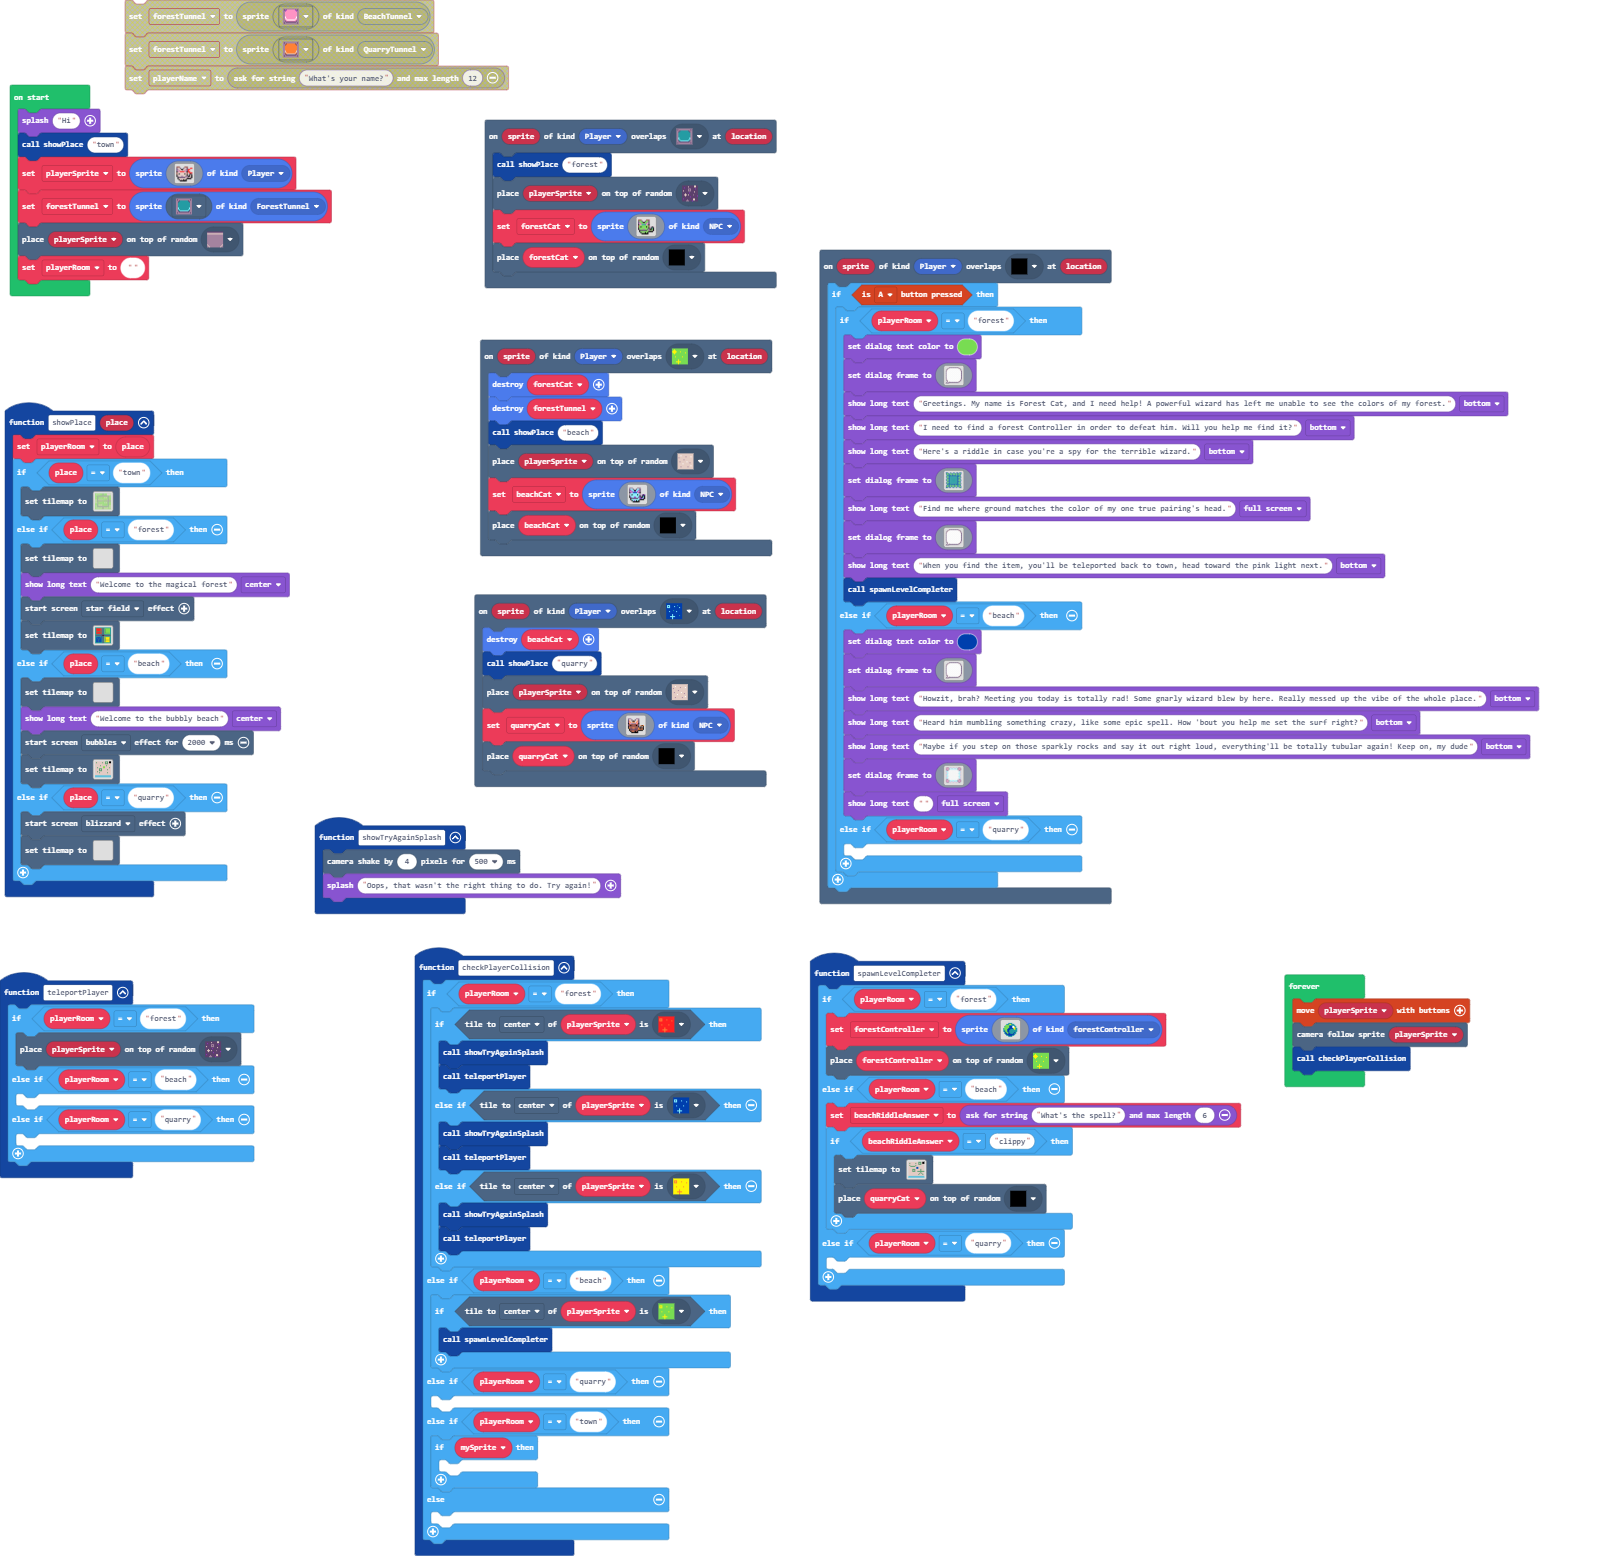
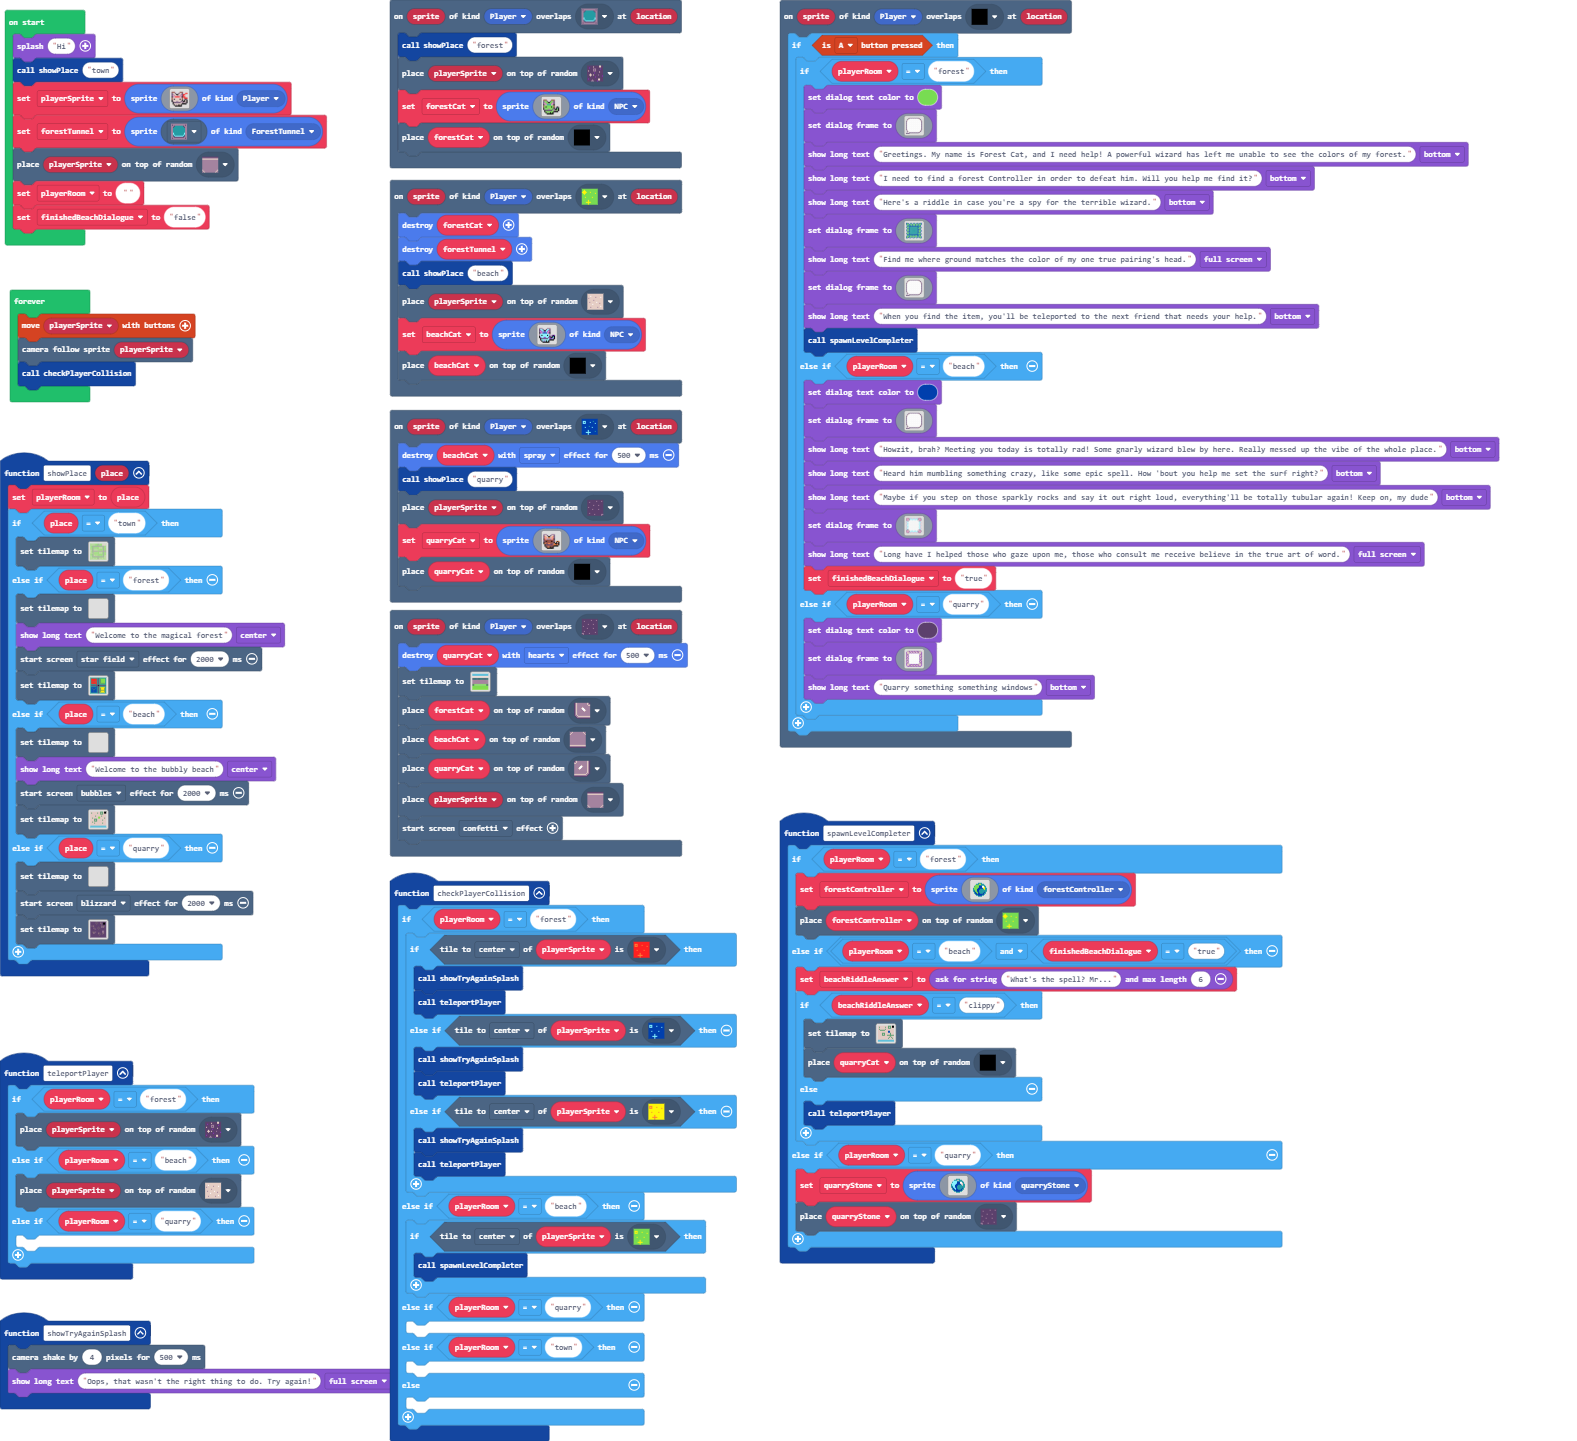
finished beach scene, made quarry tilemap, and levelCompleter orb

diff --git a/main.ts b/main.ts
@@ -4,6 +4,7 @@ namespace SpriteKind {
     export const QuarryTunnel = SpriteKind.create()
     export const NPC = SpriteKind.create()
     export const forestController = SpriteKind.create()
+    export const quarryStone = SpriteKind.create()
 }
 scene.onOverlapTile(SpriteKind.Player, myTiles.tile2, function (sprite, location) {
     if (controller.A.isPressed()) {
@@ -100,7 +101,7 @@ scene.onOverlapTile(SpriteKind.Player, myTiles.tile2, function (sprite, location
                 .b11bcccccccccccccc.....
                 ccccc...................
                 `)
-            game.showLongText("When you find the item, you'll be teleported back to town, head toward the pink light next.", DialogLayout.Bottom)
+            game.showLongText("When you find the item, you'll be teleported to the next friend that needs your help.", DialogLayout.Bottom)
             spawnLevelCompleter()
         } else if (playerRoom == "beach") {
             game.setDialogTextColor(8)
@@ -177,11 +178,57 @@ scene.onOverlapTile(SpriteKind.Player, myTiles.tile2, function (sprite, location
                 ..........................................
                 ..........................................
                 `)
-            game.showLongText("", DialogLayout.Full)
+            game.showLongText("Long have I helped those who gaze upon me, those who consult me receive believe in the true art of word.", DialogLayout.Full)
+            finishedBeachDialogue = "true"
         } else if (playerRoom == "quarry") {
-        	
+            game.setDialogTextColor(12)
+            game.setDialogFrame(img`
+                ..bbabbaabbaabbaabbbbb..
+                .bddbaddbaddbaddbabbddb.
+                addddbaddbaddbaddbadddda
+                addddbbaabbaabbaabbdddda
+                abddb11111111111111bddba
+                bbab1111111111111111bbab
+                babb1111111111111111badb
+                abda1111111111111111adda
+                adda1111111111111111adba
+                bdab1111111111111111bbab
+                babb1111111111111111badb
+                abda1111111111111111adda
+                adda1111111111111111adba
+                bdab1111111111111111bbab
+                babb1111111111111111badb
+                abda1111111111111111adda
+                adda1111111111111111adba
+                bdab1111111111111111bbab
+                babb1111111111111111babb
+                abddb11111111111111bddba
+                addddbbaabbaabbaabbdddda
+                addddabddabddabddabdddda
+                .addbbabddabddabddabdda.
+                ..aaabbaabbaabbaabbaaa..
+                `)
+            game.showLongText("Quarry something something windows", DialogLayout.Bottom)
         }
     }
+})
+scene.onOverlapTile(SpriteKind.Player, sprites.dungeon.darkGroundNorthEast1, function (sprite, location) {
+    quarryCat.destroy(effects.hearts, 500)
[1 lines of base64/hex data omitted]
+        . . . . . . . . 
+        . . . . . . . . 
+        . . . . . . . . 
+        . . . . . . . . 
+        . . . . . . . . 
+        . . . . . . . . 
+        . . . . . . . . 
+        . . . . . . . . 
+        `, [myTiles.transparency16,sprites.vehicle.roadTurn3,sprites.vehicle.roadIntersection1,sprites.vehicle.roadTurn4,sprites.vehicle.roadIntersection3,sprites.vehicle.roadTurn2,sprites.vehicle.roadTurn1,sprites.builtin.crowd5,sprites.builtin.crowd1,sprites.builtin.crowd0,sprites.builtin.crowd2,sprites.builtin.crowd3,sprites.builtin.crowd4,sprites.builtin.crowd6,sprites.builtin.brick,sprites.dungeon.hazardWater,sprites.castle.saplingPine,sprites.castle.tileGrass1,sprites.castle.tileGrass2,sprites.castle.tileGrass3], TileScale.Sixteen))
+    tiles.placeOnRandomTile(forestCat, sprites.vehicle.roadTurn3)
+    tiles.placeOnRandomTile(beachCat, sprites.vehicle.roadIntersection1)
+    tiles.placeOnRandomTile(quarryCat, sprites.vehicle.roadTurn4)
+    tiles.placeOnRandomTile(playerSprite, sprites.vehicle.roadIntersection3)
+    effects.confetti.startScreenEffect()
 })
 function spawnLevelCompleter () {
     if (playerRoom == "forest") {
@@ -204,10 +251,10 @@ function spawnLevelCompleter () {
             . . . . . . . . . . . . . . . . 
             `, SpriteKind.forestController)
         tiles.placeOnRandomTile(forestController, myTiles.tile9)
-    } else if (playerRoom == "beach") {
-        beachRiddleAnswer = game.askForString("What's the spell?", 6)
+    } else if (playerRoom == "beach" && finishedBeachDialogue == "true") {
+        beachRiddleAnswer = game.askForString("What's the spell? Mr...", 6)
         if (beachRiddleAnswer == "clippy") {
-            tiles.setTilemap(tiles.createTilemap(hex`1000100001010101010101010101030303010404010301010101010301010301030104040101010101010101010103030301010101030101010101030101010101010101010103030303030101010101010101010101010101010101050501010101010101010101010101010505010101010101010101010303030101010101030101010101010103010301010101010301010101010101030303010103030303030303010101010101010101010101030101010101010101010101010101030103010101010101010101010101030101010301010101010101010101010101010101010202020202020202020202020202020202020202020202020202020202020202`, img`
+            tiles.setTilemap(tiles.createTilemap(hex`1000100001010101010101010101030303010404010301010101010301010301030104040101010101010101010103030301010101030101010101030101010101010101010103030303030101010101010101010101010101010101010105050101010101010101010101010101050501010101010101010303030101010101030101010101010103010301010101010301010101010101030303010103030303030303010101010101010101010101030101010101010101010101010101030103010101010101010101010101030101010301010101010101010101010101010101010202020202020202020202020202020202020202020202020202020202020202`, img`
                 . . . . . . . . . . 2 2 2 . . . 
                 . . . . . . . . . . 2 . 2 . . . 
                 . . . . . . . . . . 2 2 2 . . . 
@@ -226,9 +273,29 @@ function spawnLevelCompleter () {
                 . . . . . . . . . . . . . . . . 
                 `, [myTiles.transparency16,myTiles.tile10,sprites.dungeon.hazardWater,sprites.castle.shrub,myTiles.tile2,myTiles.tile11], TileScale.Sixteen))
             tiles.placeOnRandomTile(quarryCat, myTiles.tile2)
+        } else {
+            teleportPlayer()
         }
     } else if (playerRoom == "quarry") {
-    	
+        quarryStone = sprites.create(img`
+            . . . . . . . . . . . . . . . . 
+            . . . . . . 6 6 6 6 . . . . . . 
+            . . . . 6 6 6 d d 6 6 6 . . . . 
+            . . . 9 9 9 9 6 6 6 6 6 6 . . . 
+            . . 6 9 9 9 9 8 8 8 1 1 6 6 . . 
+            . . 9 9 9 9 9 8 8 8 1 1 d 6 . . 
+            . 6 9 9 9 9 8 8 8 8 8 d d 6 6 . 
+            . 6 9 9 9 8 8 8 6 6 6 6 d 6 6 . 
+            . 6 6 9 9 8 8 6 6 6 6 6 6 6 6 . 
+            . 6 8 9 9 8 8 6 6 6 6 6 6 6 6 . 
+            . . 6 8 9 9 8 6 6 6 6 6 8 6 . . 
+            . . 6 8 8 9 8 8 6 6 6 8 6 6 . . 
+            . . . 6 8 8 8 8 8 8 8 8 6 . . . 
+            . . . . 6 6 8 8 8 8 6 6 . . . . 
+            . . . . . . 6 6 6 6 . . . . . . 
+            . . . . . . . . . . . . . . . . 
+            `, SpriteKind.quarryStone)
+        tiles.placeOnRandomTile(quarryStone, sprites.dungeon.darkGroundNorthEast1)
     }
 }
 function checkPlayerCollision () {
@@ -250,10 +317,7 @@ function checkPlayerCollision () {
     } else if (playerRoom == "quarry") {
     	
     } else if (playerRoom == "town") {
-        let mySprite = 0
-        if (mySprite) {
-        	
-        }
+    	
     } else {
     	
     }
@@ -282,9 +346,9 @@ scene.onOverlapTile(SpriteKind.Player, myTiles.tile9, function (sprite, location
     tiles.placeOnRandomTile(beachCat, myTiles.tile2)
 })
 scene.onOverlapTile(SpriteKind.Player, myTiles.tile11, function (sprite, location) {
-    beachCat.destroy()
+    beachCat.destroy(effects.spray, 500)
     showPlace("quarry")
-    tiles.placeOnRandomTile(playerSprite, myTiles.tile10)
+    tiles.placeOnRandomTile(playerSprite, sprites.dungeon.darkGroundNorthWest1)
     quarryCat = sprites.create(img`
         . . . . . . . . . . . . . . 
         b b b . . . . b b b . . . . 
@@ -328,19 +392,19 @@ function teleportPlayer () {
     if (playerRoom == "forest") {
         tiles.placeOnRandomTile(playerSprite, myTiles.tile4)
     } else if (playerRoom == "beach") {
-    	
+        tiles.placeOnRandomTile(playerSprite, myTiles.tile10)
     } else if (playerRoom == "quarry") {
     	
     }
 }
 function showTryAgainSplash () {
     scene.cameraShake(4, 500)
-    game.splash("Oops, that wasn't the right thing to do. Try again!")
+    game.showLongText("Oops, that wasn't the right thing to do. Try again!", DialogLayout.Full)
 }
 function showPlace (place: string) {
     playerRoom = place
     if (place == "town") {
[2 lines of base64/hex data omitted]
             ......................2..2......................
             ......................2..2......................
             ......................2..2......................
@@ -389,7 +453,7 @@ function showPlace (place: string) {
             ................................................
             ................................................
             ................................................
-            `, [myTiles.transparency16,sprites.castle.tileGrass1,sprites.castle.tileGrass3,sprites.castle.tileGrass2,sprites.vehicle.roadIntersection3,sprites.vehicle.roadIntersection1,sprites.vehicle.roadTurn1,sprites.vehicle.roadIntersection2,sprites.vehicle.roadIntersection4,sprites.vehicle.roadTurn4,sprites.vehicle.roadTurn3,sprites.dungeon.buttonTealDepressed,sprites.dungeon.buttonPink,sprites.vehicle.roadTurn2,sprites.castle.shrub,sprites.castle.rock2,sprites.castle.saplingOak,sprites.builtin.coral1,sprites.castle.tilePath5,sprites.dungeon.buttonOrangeDepressed], TileScale.Sixteen))
+            `, [myTiles.transparency16,sprites.castle.tileGrass1,sprites.castle.tileGrass3,sprites.castle.tileGrass2,sprites.vehicle.roadIntersection3,sprites.vehicle.roadIntersection1,sprites.vehicle.roadTurn1,sprites.vehicle.roadIntersection2,sprites.vehicle.roadIntersection4,sprites.vehicle.roadTurn4,sprites.vehicle.roadTurn3,sprites.dungeon.buttonTealDepressed,sprites.vehicle.roadTurn2,sprites.castle.shrub,sprites.castle.rock2,sprites.castle.saplingOak,sprites.builtin.coral1,sprites.castle.tilePath5], TileScale.Sixteen))
     } else if (place == "forest") {
         tiles.setTilemap(tiles.createTilemap(hex`1000100000000000000000000000000000000000000000000000000000000000000000000000000000000000000000000000000000000000000000000000000000000000000000000000000000000000000000000000000000000000000000000000000000000000000000000000000000000000000000000000000000000000000000000000000000000000000000000000000000000000000000000000000000000000000000000000000000000000000000000000000000000000000000000000000000000000000000000000000000000000000000000000000000000000000000000000000000000000000000000000000000000000000000000000000000000000`, img`
             . . . . . . . . . . . . . . . . 
@@ -410,7 +474,7 @@ function showPlace (place: string) {
             . . . . . . . . . . . . . . . . 
             `, [myTiles.transparency16], TileScale.Sixteen))
         game.showLongText("Welcome to the magical forest", DialogLayout.Center)
-        effects.starField.startScreenEffect()
+        effects.starField.startScreenEffect(2000)
[1 lines of base64/hex data omitted]
             ..............22222.............
             ..............2..22222222222222.
@@ -485,7 +549,6 @@ function showPlace (place: string) {
             . . . . . . . . . . . . . . . . 
             `, [myTiles.transparency16,myTiles.tile10,sprites.dungeon.hazardWater,sprites.castle.shrub,myTiles.tile2,myTiles.tile6], TileScale.Sixteen))
     } else if (place == "quarry") {
-        effects.blizzard.startScreenEffect()
         tiles.setTilemap(tiles.createTilemap(hex`1000100000000000000000000000000000000000000000000000000000000000000000000000000000000000000000000000000000000000000000000000000000000000000000000000000000000000000000000000000000000000000000000000000000000000000000000000000000000000000000000000000000000000000000000000000000000000000000000000000000000000000000000000000000000000000000000000000000000000000000000000000000000000000000000000000000000000000000000000000000000000000000000000000000000000000000000000000000000000000000000000000000000000000000000000000000000000`, img`
             . . . . . . . . . . . . . . . . 
             . . . . . . . . . . . . . . . . 
@@ -504,13 +567,34 @@ function showPlace (place: string) {
             . . . . . . . . . . . . . . . . 
             . . . . . . . . . . . . . . . . 
             `, [myTiles.transparency16], TileScale.Sixteen))
+        effects.blizzard.startScreenEffect(2000)
[1 lines of base64/hex data omitted]
+            . . . . . . . . . . . . . . . . 
+            . . . . . . . . . . . . . . . . 
+            . . . . . . . . . . . . . . . . 
+            . . . . . . . . . . . . . . . . 
+            . . . . . . . . . . . . . . . . 
+            . . . . . . . . . . . . . . . . 
+            . . . . . . . . . . . . . . . . 
+            . . . . . . . . . . . . . . . . 
+            . . . . . . . . . . . . . . . . 
+            . . . . . . . . . . . . . . . . 
+            . . . . . . . . . . . . . . . . 
+            . . . . . . . . . . . . . . . . 
+            . . . . . . . . . . . . . . . . 
+            . . . . . . . . . . . . . . . . 
+            . . . . . . . . . . . . . . . . 
+            . . . . . . . . . . . . . . . . 
+            `, [myTiles.transparency16,sprites.dungeon.floorDark5,sprites.dungeon.darkGroundNorthWest0,sprites.dungeon.darkGroundNorth,sprites.dungeon.darkGroundNorthEast0,sprites.dungeon.darkGroundEast,sprites.dungeon.darkGroundSouthEast0,sprites.dungeon.darkGroundSouth,sprites.dungeon.darkGroundSouthWest0,sprites.dungeon.darkGroundWest,sprites.dungeon.darkGroundCenter,sprites.dungeon.darkGroundNorthEast1,sprites.dungeon.darkGroundNorthWest1,sprites.dungeon.doorClosedWest,sprites.dungeon.doorClosedEast,sprites.dungeon.doorOpenEast,sprites.dungeon.doorLockedWest,sprites.dungeon.doorClosedNorth,sprites.dungeon.doorClosedSouth,sprites.dungeon.doorOpenSouth,sprites.dungeon.doorOpenNorth,sprites.dungeon.doorOpenWest,sprites.dungeon.floorDark3,sprites.dungeon.floorDark1,sprites.dungeon.doorLockedEast,sprites.dungeon.doorLockedNorth,myTiles.tile2], TileScale.Sixteen))
     }
 }
+let quarryStone: Sprite = null
+let beachRiddleAnswer = ""
+let forestController: Sprite = null
 let beachCat: Sprite = null
 let forestCat: Sprite = null
 let quarryCat: Sprite = null
-let beachRiddleAnswer = ""
-let forestController: Sprite = null
+let finishedBeachDialogue = ""
 let playerRoom = ""
 let forestTunnel: Sprite = null
 let playerSprite: Sprite = null
@@ -535,6 +619,7 @@ playerSprite = sprites.create(img`
 forestTunnel = sprites.create(sprites.dungeon.buttonTealDepressed, SpriteKind.ForestTunnel)
 tiles.placeOnRandomTile(playerSprite, sprites.vehicle.roadIntersection3)
 playerRoom = ""
+finishedBeachDialogue = "false"
 forever(function () {
     controller.moveSprite(playerSprite)
     scene.cameraFollowSprite(playerSprite)
